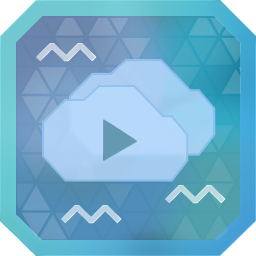
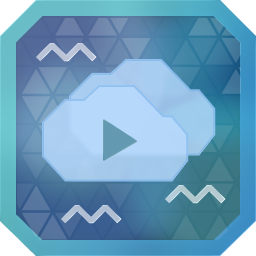
make volumetric skyboxes optional

diff --git a/Plugin.cs b/Plugin.cs
@@ -4,20 +4,15 @@ using System.IO;
 using System.Linq;
 using System.Reflection;
 using BepInEx;
+using BepInEx.Bootstrap;
 using BepInEx.Logging;
 using HarmonyLib;
-using Notiffy.Utils;
-using NukeLib.Assets;
-using UnityEngine;
-using VolumetricSkyboxes;
-using VolumetricSkyboxes.Components;
-using VolumetricSkyboxes.Utils;
-using ReflectionUtils = NukeLib.Reflection.ReflectionUtils;
 
 namespace CybergrindSlideshow;
 
 [BepInPlugin(PluginGUID, PluginName, PluginVersion)]
 [BepInDependency("com.eternalUnion.pluginConfigurator")]
+[BepInDependency("dev.flazhik.volumetric-skyboxes", BepInDependency.DependencyFlags.SoftDependency)]
 public class Plugin : BaseUnityPlugin {
     // Logger
     internal static ManualLogSource Log;
@@ -27,7 +22,10 @@ public class Plugin : BaseUnityPlugin {
     public static string workingDir = Path.GetDirectoryName(workingPath);
     public const string PluginGUID = "com.github.end-4.cybergrindSlideshow";
     public const string PluginName = "CybergrindSlideshow";
-    public const string PluginVersion = "1.0.1";
+    public const string PluginVersion = "1.1.0";
+
+    // Volumetric skyboxes soft dep
+    internal static bool VolumetricAvailable = false;
 
     private void Awake() {
         Log = Logger;
@@ -43,92 +41,9 @@ public class Plugin : BaseUnityPlugin {
         Log.LogInfo($"{PluginName} loaded");
     }
 
-    private static string SelectSkyboxFile(string folderPath, ConfigManager.SelectionOrder selectionOrder) {
-        string[] allowedExtensions = { ".jpg", ".jpeg", ".png", ".cgvsb" };
-        if (!Directory.Exists(folderPath)) return "";
-        string[] files = Directory.EnumerateFiles(folderPath, "*.*", SearchOption.TopDirectoryOnly)
-            .Where(file => allowedExtensions.Contains(Path.GetExtension(file), StringComparer.OrdinalIgnoreCase))
-            .ToArray();
-
-        string chosen = "";
-        int fileIndex = 0;
-        switch (selectionOrder) {
-            case ConfigManager.SelectionOrder.Random:
-                fileIndex = UnityEngine.Random.Range(0, files.Count());
-                Log.LogInfo($"Random index {fileIndex}");
-                break;
-            case ConfigManager.SelectionOrder.Sequential:
-            default:
-                fileIndex = MonoSingleton<EndlessGrid>.Instance.currentWave % files.Count();
-                Log.LogInfo($"Sequential index {fileIndex}");
-                break;
-        }
-
-        chosen = files[fileIndex];
-        return chosen;
-    }
-
-    public static void UnloadAllVolumetricSkyboxes() {
-        var manager = MonoSingleton<VolumetricSkyboxesManager>.Instance;
-        if (manager == null) return;
-        Dictionary<string, VolumetricSkyboxContainer> skyboxesDict =
-            manager.GetPrivate<Dictionary<string, VolumetricSkyboxContainer>>("_skyboxes");
-        if (skyboxesDict == null) return;
-        var keys = skyboxesDict?.Keys;
-        if (keys == null) return;
-        var guidsToRemove = new List<string>(keys);
-
-        foreach (var guid in guidsToRemove) {
-            if (manager == null) break;
-            manager.RemoveSkybox(guid);
-        }
-    }
-
-    private static void LoadVolumetricSkybox(string guid) {
-        bool prevUseGrid = ConfigManager.ForceDisableVolumetricSkyboxGridTexture.value
-            ? PrefsManager.Instance.GetBoolLocal("cyberGrind.volumetricSkyboxes.useSkyboxesGridTextures", true)
-            : false;
-        if (prevUseGrid)
-            PrefsManager.Instance.SetBoolLocal("cyberGrind.volumetricSkyboxes.useSkyboxesGridTextures", false);
-        MonoSingleton<VolumetricSkyboxesManager>.Instance?.AddSkybox(guid);
-        if (prevUseGrid)
-            PrefsManager.Instance.SetBoolLocal("cyberGrind.volumetricSkyboxes.useSkyboxesGridTextures", true);
-    }
-
-    private static async void ChangeSkybox() {
-        try {
-            string filePath =
-                SelectSkyboxFile(ConfigManager.SkyboxDir.value, ConfigManager.SkyboxChangeOrder.value);
-            if (filePath == "") return;
-
-            Log.LogInfo($"Switching skybox to {filePath}");
-            try {
-                UnloadAllVolumetricSkyboxes();
-            } catch (Exception e) {
-                Log.LogWarning(e);
-            }
-            if (filePath.EndsWith(".cgvsb")) {
-                // Volumetric
-                var bundleData = SkyboxFileUtility.UnpackSkybox(filePath);
-                LoadVolumetricSkybox(bundleData.guid);
-            } else {
-                Material mat =
-                    ((OutdoorLightMaster)FindObjectsOfType(typeof(OutdoorLightMaster))[0]).GetPrivate<Material>(
-                        "skyboxMaterial");
-                Material mat2 =
-                    ReflectionUtils.GetPrivate<Material>(
-                        ((OutdoorLightMaster)FindObjectsOfType(typeof(OutdoorLightMaster))[0]), "tempSkybox");
-                Texture2D tex = await FileAssetHelper.LoadTextureAsync(filePath);
-                mat.mainTexture = tex;
-                mat2.mainTexture = tex;
-            }
-        } catch (Exception e) {
-            Log.LogWarning(e);
-        }
-    }
-
-    private static void ChangeTheme() {
-        if (ConfigManager.SkyboxEnabled.value) ChangeSkybox();
+    private void Start() {
+        if (Chainloader.PluginInfos.ContainsKey("dev.flazhik.volumetric-skyboxes")) VolumetricAvailable = true;
+        Plugin.Log.LogInfo($"Volumetric available: {VolumetricAvailable}");
     }
 
     [HarmonyPatch(typeof(EndlessGrid))]
@@ -136,7 +51,7 @@ public class Plugin : BaseUnityPlugin {
     public class EndlessGridPatch {
         public static void Postfix() {
             Log.LogInfo("Cycling stuff");
-            ChangeTheme();
+            ThemeChanger.ChangeTheme();
         }
     }
 }

diff --git a/ThemeChanger.cs b/ThemeChanger.cs
@@ -1,0 +1,80 @@
+using System;
+using System.IO;
+using System.Linq;
+using NukeLib.Assets;
+using NukeLib.Reflection;
+using UnityEngine;
+using Object = UnityEngine.Object;
+using ReflectionUtils = NukeLib.Reflection.ReflectionUtils;
+
+namespace CybergrindSlideshow;
+
+public static class ThemeChanger {
+    private static string SelectFile(string folderPath, ConfigManager.SelectionOrder selectionOrder,
+        string[] allowedExtensions) {
+        if (!Directory.Exists(folderPath)) return "";
+        string[] files = Directory.EnumerateFiles(folderPath, "*.*", SearchOption.TopDirectoryOnly)
+            .Where(file => allowedExtensions.Contains(Path.GetExtension(file), StringComparer.OrdinalIgnoreCase))
+            .ToArray();
+
+        string chosen = "";
+        int fileIndex = 0;
+        switch (selectionOrder) {
+            case ConfigManager.SelectionOrder.Random:
+                fileIndex = UnityEngine.Random.Range(0, files.Count());
+                Plugin.Log.LogInfo($"Random index {fileIndex}");
+                break;
+            case ConfigManager.SelectionOrder.Sequential:
+            default:
+                fileIndex = MonoSingleton<EndlessGrid>.Instance.currentWave % files.Count();
+                Plugin.Log.LogInfo($"Sequential index {fileIndex}");
+                break;
+        }
+
+        chosen = files[fileIndex];
+        return chosen;
+    }
+
+    private static string SelectSkyboxFile(string folderPath, ConfigManager.SelectionOrder selectionOrder) {
+        return SelectFile(folderPath, selectionOrder,
+            Plugin.VolumetricAvailable ? [".jpg", ".jpeg", ".png", ".cgvsb"] : [".jpg", ".jpeg", ".png"]
+        );
+    }
+
+    private static string SelectGridFile(string folderPath, ConfigManager.SelectionOrder selectionOrder) {
+        return SelectFile(folderPath, selectionOrder, [".jpg", ".jpeg", ".png"]);
+    }
+
+    private static async void ChangeSkybox(string filePath) {
+        Plugin.Log.LogInfo($"Switching skybox to {filePath}");
+        if (Plugin.VolumetricAvailable) VolumetricSkyboxHelper.UnloadAllVolumetricSkyboxes();
+        if (filePath.EndsWith(".cgvsb")) {
+            // Volumetric
+            try {
+                string guid = VolumetricSkyboxHelper.GuidForVolumetricSkyboxFile(filePath);
+                if (Plugin.VolumetricAvailable) VolumetricSkyboxHelper.LoadVolumetricSkybox(guid);
+            } catch (Exception e) {
+                Plugin.Log.LogWarning(e);
+            }
+        } else {
+            Material mat =
+                ((OutdoorLightMaster)Object.FindObjectsOfType(typeof(OutdoorLightMaster))[0]).GetPrivate<Material>(
+                    "skyboxMaterial");
+            Material mat2 =
+                ReflectionUtils.GetPrivate<Material>(
+                    ((OutdoorLightMaster)Object.FindObjectsOfType(typeof(OutdoorLightMaster))[0]), "tempSkybox");
+            Texture2D tex = await FileAssetHelper.LoadTextureAsync(filePath);
+            mat.mainTexture = tex;
+            mat2.mainTexture = tex;
+        }
+    }
+
+    public static void ChangeTheme() {
+        string filePath = SelectSkyboxFile(ConfigManager.SkyboxDir.value, ConfigManager.SkyboxChangeOrder.value);
+        if (filePath == "") return;
+        if (ConfigManager.SkyboxEnabled.value) ChangeSkybox(filePath);
+    }
+
+    public static void RecordDefaults() {
+    }
+}

diff --git a/VolumetricSkyboxHelper.cs b/VolumetricSkyboxHelper.cs
@@ -1,0 +1,51 @@
+using System.Collections.Generic;
+using VolumetricSkyboxes;
+using VolumetricSkyboxes.Components;
+using VolumetricSkyboxes.Utils;
+using ReflectionUtils = NukeLib.Reflection.ReflectionUtils;
+
+namespace CybergrindSlideshow;
+
+/// <summary>
+/// Everything volumetric related is proxied through here so it works as a soft dependency
+/// </summary>
+public static class VolumetricSkyboxHelper {
+    public static void UnloadAllVolumetricSkyboxes() {
+        var manager = MonoSingleton<VolumetricSkyboxesManager>.Instance;
+        if (manager == null) return;
+        Dictionary<string, VolumetricSkyboxContainer> skyboxesDict =
+            ReflectionUtils.GetPrivate<Dictionary<string, VolumetricSkyboxContainer>>(manager, "_skyboxes");
+        if (skyboxesDict == null) return;
+        var keys = skyboxesDict?.Keys;
+        if (keys == null) return;
+        var guidsToRemove = new List<string>(keys);
+
+        foreach (var guid in guidsToRemove) {
+            if (manager == null) break;
+            manager.RemoveSkybox(guid);
+        }
+    }
+
+    public static void LoadVolumetricSkybox(string guid) {
+        bool prevUseGrid = ConfigManager.ForceDisableVolumetricSkyboxGridTexture.value
+            ? PrefsManager.Instance.GetBoolLocal("cyberGrind.volumetricSkyboxes.useSkyboxesGridTextures", true)
+            : false;
+        if (prevUseGrid) {
+            PrefsManager.Instance.SetBoolLocal("cyberGrind.volumetricSkyboxes.useSkyboxesGridTextures", false);
+        }
+
+        var vsbman = MonoSingleton<VolumetricSkyboxesManager>.Instance;
+        if (vsbman != null) vsbman.AddSkybox(guid);
+        if (prevUseGrid) {
+            PrefsManager.Instance.SetBoolLocal("cyberGrind.volumetricSkyboxes.useSkyboxesGridTextures", true);
+        }
+    }
+
+    public static VolumetricSkyboxBundleData UnpackFile(string filePath) {
+        return SkyboxFileUtility.UnpackSkybox(filePath);
+    }
+
+    public static string GuidForVolumetricSkyboxFile(string filePath) {
+        return UnpackFile(filePath).guid;
+    }
+}